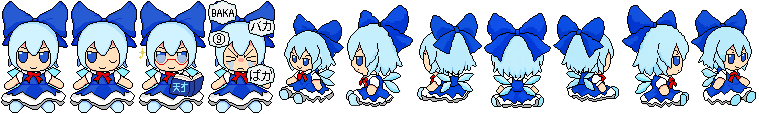
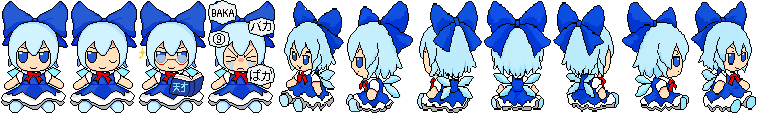
[fix] Fix Cirno sprite sheet

Changed region(s): [[0.3636, 0.0, 1.0, 1.0], [0.8788, 0.5, 0.9091, 0.5263]]

diff --git a/editors/vscode/CHANGELOG.md b/editors/vscode/CHANGELOG.md
@@ -2,6 +2,12 @@
 
 All notable changes to Touhou Fumo Companion will be documented here.
 
+## [1.3.1] - 2026-10-28
+
+### Fixed
+
+- Fix bad spin animation for Cirno.
+
 ## [1.3.0] - 2026-10-28
 
 ### Added

diff --git a/editors/vscode/README.md b/editors/vscode/README.md
@@ -22,6 +22,7 @@ For one brief, glorious moment, Cirno becomes smort.
     alt="Cirno"
   >
 </p>
+
 ---
 
 ## Features
